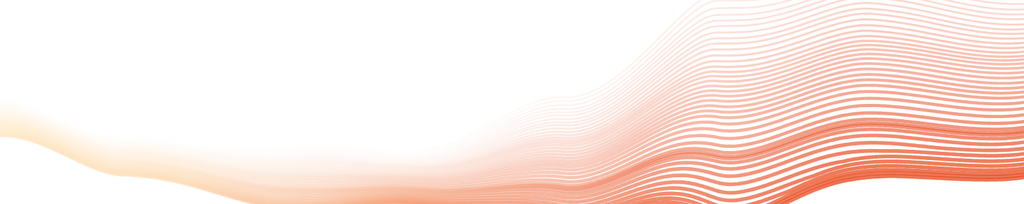
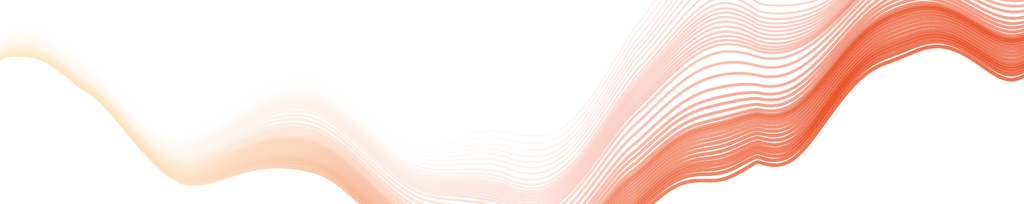
feat(lab): multiply Twizzler wave hills from A base (#CF-16)
Add multi-frequency centerline + stronger Z terrain bumps. Capture A2/A3/A4
amplitude experiments (roughly 2x/3x/4x wave energy).

diff --git a/apps/lab/src/twizzler.ts b/apps/lab/src/twizzler.ts
@@ -293,26 +293,36 @@ function sampleKnots(x: number, knots: ReadonlyArray<readonly [number, number]>)
 
 /**
  * Marketing banner centerline in normalized Y (0=top, 1=bottom).
- * Sparse smooth knots — mid entry → soft valley → steep smooth fan to top-right.
- * No high-frequency vertical noise.
+ * Multi-hill silhouette — not a flat single sweep. Amplitude scales with settings.
  */
 export function twizzlerMarketingCenterY(xT: number, settings: TwizzlerSettings, time: number): number {
   const x = Math.max(0, Math.min(1, xT));
-  // Sparse knots only — smooth sweeping silhouette (no jagged envelope sampling).
+  // Base spine still trends mid → valley → rise, but with many hills.
   const yKnot = sampleKnots(x, [
-    [0.0, 0.6],
-    [0.12, 0.78],
-    [0.28, 0.9],
-    [0.42, 0.91],
-    [0.55, 0.78],
-    [0.7, 0.42],
-    [0.85, 0.2],
-    [1.0, 0.3],
+    [0.0, 0.58],
+    [0.08, 0.72],
+    [0.18, 0.86],
+    [0.3, 0.78],
+    [0.4, 0.92],
+    [0.5, 0.7],
+    [0.62, 0.48],
+    [0.74, 0.28],
+    [0.86, 0.18],
+    [1.0, 0.34],
   ]);
+  // Extra waveform stack — count/amp grow with wrinkles + amplitude (A-direction).
+  const waveGain = 0.55 + settings.amplitude * 1.35;
+  const waves =
+    waveGain *
+    (-0.085 * Math.sin(x * Math.PI * 2.4 + 0.4) +
+      -0.07 * Math.sin(x * Math.PI * 3.6 + 1.1) +
+      -0.055 * Math.sin(x * Math.PI * 5.2 + 2.2) +
+      -0.04 * Math.sin(x * Math.PI * 7.1 + time * 0.3) +
+      -0.028 * Math.sin(x * Math.PI * 9.4 + 0.7) * Math.min(1, settings.wrinkles / 2));
   const edges = twizzlerEdgeHeights(time, 0, settings);
-  const edgeBias = (edges.left - 0.6) * (1 - x) + (edges.right - 0.3) * x;
-  const bend = twizzlerPathBend(x, settings) * 0.2;
-  const yAbs = yKnot + edgeBias * 0.2 + bend;
+  const edgeBias = (edges.left - 0.58) * (1 - x) + (edges.right - 0.34) * x;
+  const bend = twizzlerPathBend(x, settings) * 0.85;
+  const yAbs = yKnot + waves + edgeBias * 0.25 + bend;
   return settings.centerY + (yAbs - 0.55) * settings.scale;
 }
 
@@ -418,8 +428,8 @@ export function twizzlerUnevenAcross(lineCount: number, gapNoise = 0.55, seed = 
 
 /**
  * Screen-space Y bias from Z nearness + along-X bump waveform.
- * Near fibers: dip in the mid ribbon, then rise toward the right (toward camera).
- * Far fibers: softer inverse bump so the stack reads as layered hills.
+ * Near fibers: dip mid-ribbon then rise toward the right (toward camera).
+ * Far fibers: inverse hills so the stack reads as layered terrain — not flat.
  */
 export function twizzlerDepthYBias(
   nearness: number,
@@ -428,12 +438,15 @@ export function twizzlerDepthYBias(
   xT = 0.5,
   waveAmp = 1,
 ): number {
-  const base = (nearness - 0.5) * pixelHeight * (0.18 + depthLift * 0.16);
-  // Smooth bump profile along X (no high-freq chatter).
-  const profile = -Math.cos((xT - 0.12) * Math.PI * 1.55); // mid low-ish, rises later
+  const base = (nearness - 0.5) * pixelHeight * (0.2 + depthLift * 0.18);
+  // Multi-bump Z terrain along X (much stronger than a single soft profile).
+  const hill1 = -Math.cos((xT - 0.1) * Math.PI * 2.2);
+  const hill2 = -Math.cos((xT - 0.35) * Math.PI * 3.4);
+  const hill3 = -Math.cos((xT - 0.62) * Math.PI * 2.8);
+  const profile = 0.55 * hill1 + 0.35 * hill2 + 0.28 * hill3;
   const nearWave = nearness * profile;
-  const farWave = (1 - nearness) * (-0.65 * profile);
-  const wave = (nearWave + farWave) * waveAmp * pixelHeight * (0.07 + depthLift * 0.07);
+  const farWave = (1 - nearness) * (-0.75 * profile + 0.25 * hill2);
+  const wave = (nearWave + farWave) * waveAmp * pixelHeight * (0.12 + depthLift * 0.12);
   return base + wave;
 }
 
@@ -465,7 +478,7 @@ export function buildTwizzlerLines(
 
   // Gap irregularity + Z-wave amplitude ride on existing wrinkle/depthLift knobs.
   const gapNoise = 0.7 + settings.wrinkleStrength * 18;
-  const waveAmp = 0.75 + settings.depthLift * 1.15;
+  const waveAmp = 1.1 + settings.depthLift * 1.6;
   const acrossSlots = twizzlerUnevenAcross(settings.lineCount, gapNoise, 2.1 + settings.wrinkles * 0.15);
 
   const center: Array<{ x: number; y: number; xT: number }> = [];
@@ -505,12 +518,14 @@ export function buildTwizzlerLines(
 
       const depth = twizzlerDepthScale(c.xT, settings);
       const depthY = twizzlerDepthYBias(nearness, pixelHeight, settings.depthLift, c.xT, waveAmp);
-      // Soft along-path wobble — low frequency only.
+      // Soft multi-wave along-path wobble — more hills, still not chatter.
       const pathWobble =
-        Math.sin(c.xT * Math.PI * (1.2 + settings.wrinkles * 0.15) + across * 2.1 + time * 0.25) *
+        (Math.sin(c.xT * Math.PI * (2.2 + settings.wrinkles * 0.35) + across * 2.1 + time * 0.25) +
+          0.55 * Math.sin(c.xT * Math.PI * (4.1 + settings.wrinkles * 0.2) + across * 1.3) +
+          0.35 * Math.sin(c.xT * Math.PI * 6.2 + across * 3.1 + time * 0.15)) *
         settings.wrinkleStrength *
         halfW *
-        0.9;
+        2.8;
       const x = c.x + nx * braid * halfW * 0.025 * Math.sin(fiberTheta);
       const y = c.y + ny * projected + depthY + pathWobble;
 
